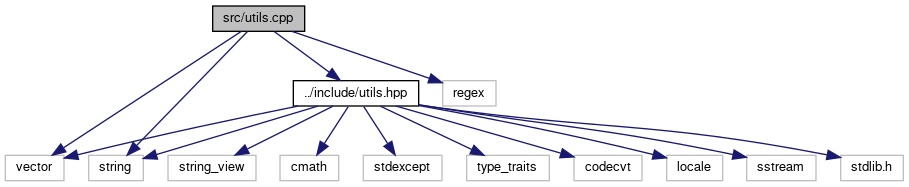
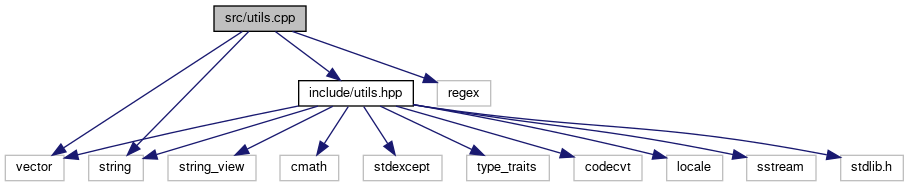
Update docs

diff --git a/docs/system_8cpp.html b/docs/system_8cpp.html
@@ -74,7 +74,7 @@ $(function() {
 <div class="title">system.cpp File Reference</div>  </div>
 </div><!--header-->
 <div class="contents">
-<div class="textblock"><code>#include &quot;<a class="el" href="system_8hpp_source.html">../include/system.hpp</a>&quot;</code><br />
+<div class="textblock"><code>#include &lt;<a class="el" href="system_8hpp_source.html">include/system.hpp</a>&gt;</code><br />
 <code>#include &lt;stdexcept&gt;</code><br />
 <code>#include &lt;string&gt;</code><br />
 <code>#include &lt;array&gt;</code><br />
@@ -85,13 +85,13 @@ Include dependency graph for system.cpp:</div>
 <div class="dyncontent">
 <div class="center"><img src="system_8cpp__incl.png" border="0" usemap="#asrc_2system_8cpp" alt=""/></div>
 <map name="asrc_2system_8cpp" id="asrc_2system_8cpp">
-<area shape="rect" title=" " alt="" coords="252,5,363,32"/>
-<area shape="rect" href="system_8hpp.html" title=" " alt="" coords="5,80,148,107"/>
-<area shape="rect" title=" " alt="" coords="104,155,159,181"/>
-<area shape="rect" title=" " alt="" coords="224,80,303,107"/>
-<area shape="rect" title=" " alt="" coords="327,80,378,107"/>
-<area shape="rect" title=" " alt="" coords="403,80,471,107"/>
-<area shape="rect" title=" " alt="" coords="495,80,552,107"/>
+<area shape="rect" title=" " alt="" coords="242,5,353,32"/>
+<area shape="rect" href="system_8hpp.html" title=" " alt="" coords="5,80,139,107"/>
+<area shape="rect" title=" " alt="" coords="97,155,151,181"/>
+<area shape="rect" title=" " alt="" coords="214,80,293,107"/>
+<area shape="rect" title=" " alt="" coords="317,80,368,107"/>
+<area shape="rect" title=" " alt="" coords="393,80,461,107"/>
+<area shape="rect" title=" " alt="" coords="485,80,542,107"/>
 </map>
 </div>
 </div><table class="memberdecls">

diff --git a/docs/utils_8cpp.html b/docs/utils_8cpp.html
@@ -74,7 +74,7 @@ $(function() {
 <div class="title">utils.cpp File Reference</div>  </div>
 </div><!--header-->
 <div class="contents">
-<div class="textblock"><code>#include &quot;<a class="el" href="utils_8hpp_source.html">../include/utils.hpp</a>&quot;</code><br />
+<div class="textblock"><code>#include &lt;<a class="el" href="utils_8hpp_source.html">include/utils.hpp</a>&gt;</code><br />
 <code>#include &lt;string&gt;</code><br />
 <code>#include &lt;vector&gt;</code><br />
 <code>#include &lt;regex&gt;</code><br />
@@ -83,11 +83,11 @@ Include dependency graph for utils.cpp:</div>
 <div class="dyncontent">
 <div class="center"><img src="utils_8cpp__incl.png" border="0" usemap="#asrc_2utils_8cpp" alt=""/></div>
 <map name="asrc_2utils_8cpp" id="asrc_2utils_8cpp">
-<area shape="rect" title=" " alt="" coords="213,5,305,32"/>
-<area shape="rect" href="utils_8hpp.html" title=" " alt="" coords="293,80,419,107"/>
+<area shape="rect" title=" " alt="" coords="214,5,306,32"/>
+<area shape="rect" href="utils_8hpp.html" title=" " alt="" coords="299,80,413,107"/>
 <area shape="rect" title=" " alt="" coords="5,155,64,181"/>
 <area shape="rect" title=" " alt="" coords="89,155,143,181"/>
-<area shape="rect" title=" " alt="" coords="443,80,496,107"/>
+<area shape="rect" title=" " alt="" coords="437,80,491,107"/>
 <area shape="rect" title=" " alt="" coords="363,155,442,181"/>
 <area shape="rect" title=" " alt="" coords="467,155,549,181"/>
 <area shape="rect" title=" " alt="" coords="574,155,642,181"/>

diff --git a/docs/stream_8cpp.html b/docs/stream_8cpp.html
@@ -73,17 +73,17 @@ $(function() {
 <div class="title">stream.cpp File Reference</div>  </div>
 </div><!--header-->
 <div class="contents">
-<div class="textblock"><code>#include &quot;<a class="el" href="stream_8hpp_source.html">../include/stream.hpp</a>&quot;</code><br />
+<div class="textblock"><code>#include &lt;<a class="el" href="stream_8hpp_source.html">include/stream.hpp</a>&gt;</code><br />
 <code>#include &lt;string&gt;</code><br />
 </div><div class="textblock"><div class="dynheader">
 Include dependency graph for stream.cpp:</div>
 <div class="dyncontent">
 <div class="center"><img src="stream_8cpp__incl.png" border="0" usemap="#asrc_2stream_8cpp" alt=""/></div>
 <map name="asrc_2stream_8cpp" id="asrc_2stream_8cpp">
-<area shape="rect" title=" " alt="" coords="75,5,183,32"/>
-<area shape="rect" href="stream_8hpp.html" title=" " alt="" coords="5,80,147,107"/>
-<area shape="rect" title=" " alt="" coords="146,155,201,181"/>
-<area shape="rect" title=" " alt="" coords="40,155,112,181"/>
+<area shape="rect" title=" " alt="" coords="67,5,175,32"/>
+<area shape="rect" href="stream_8hpp.html" title=" " alt="" coords="5,80,136,107"/>
+<area shape="rect" title=" " alt="" coords="138,155,193,181"/>
+<area shape="rect" title=" " alt="" coords="35,155,107,181"/>
 </map>
 </div>
 </div><table class="memberdecls">
